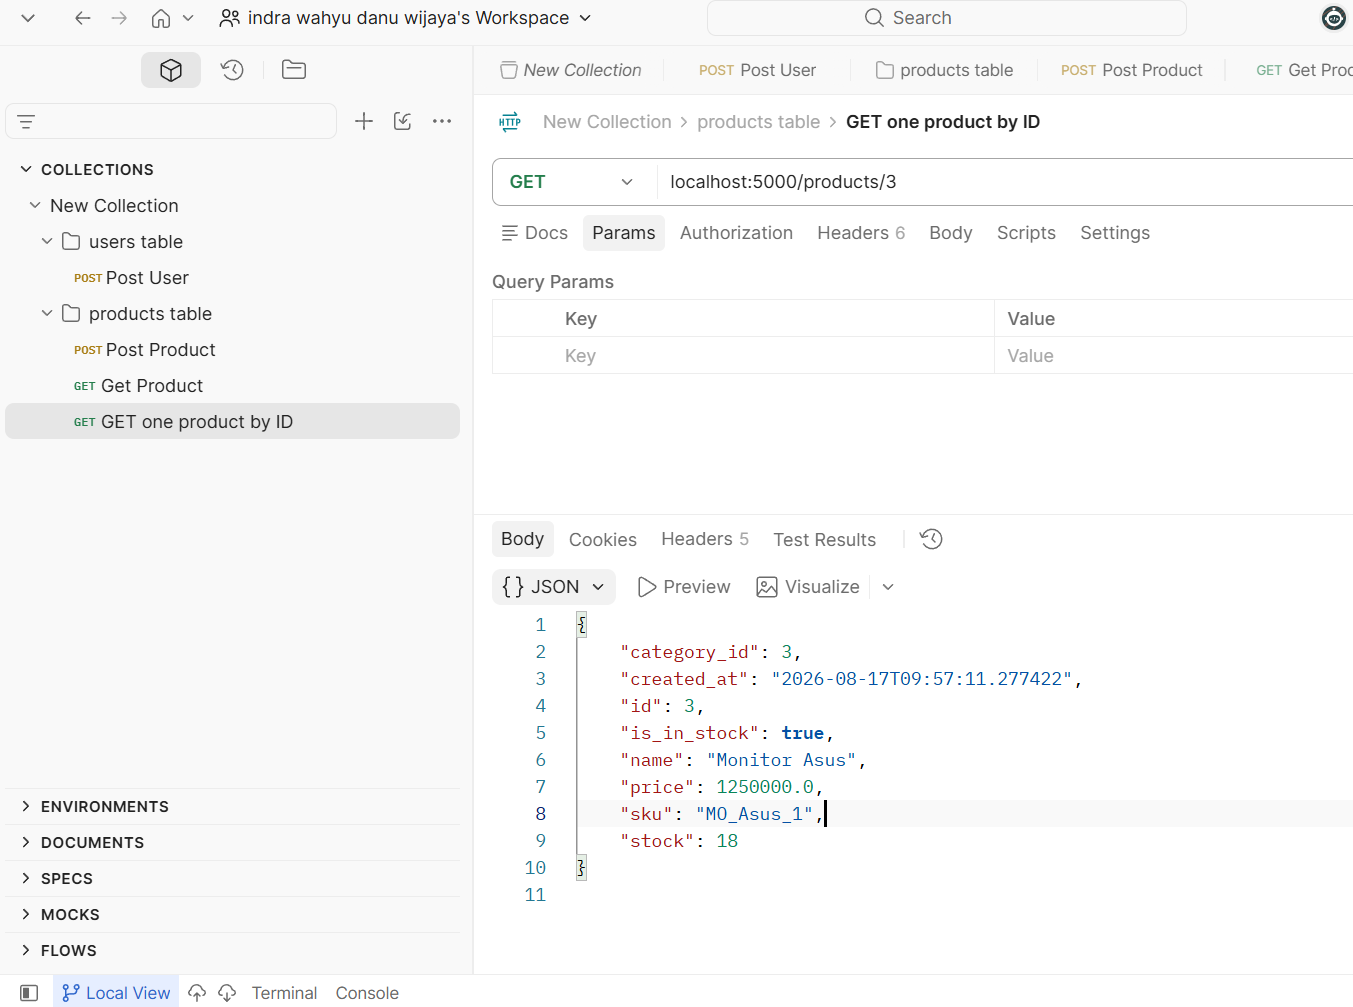
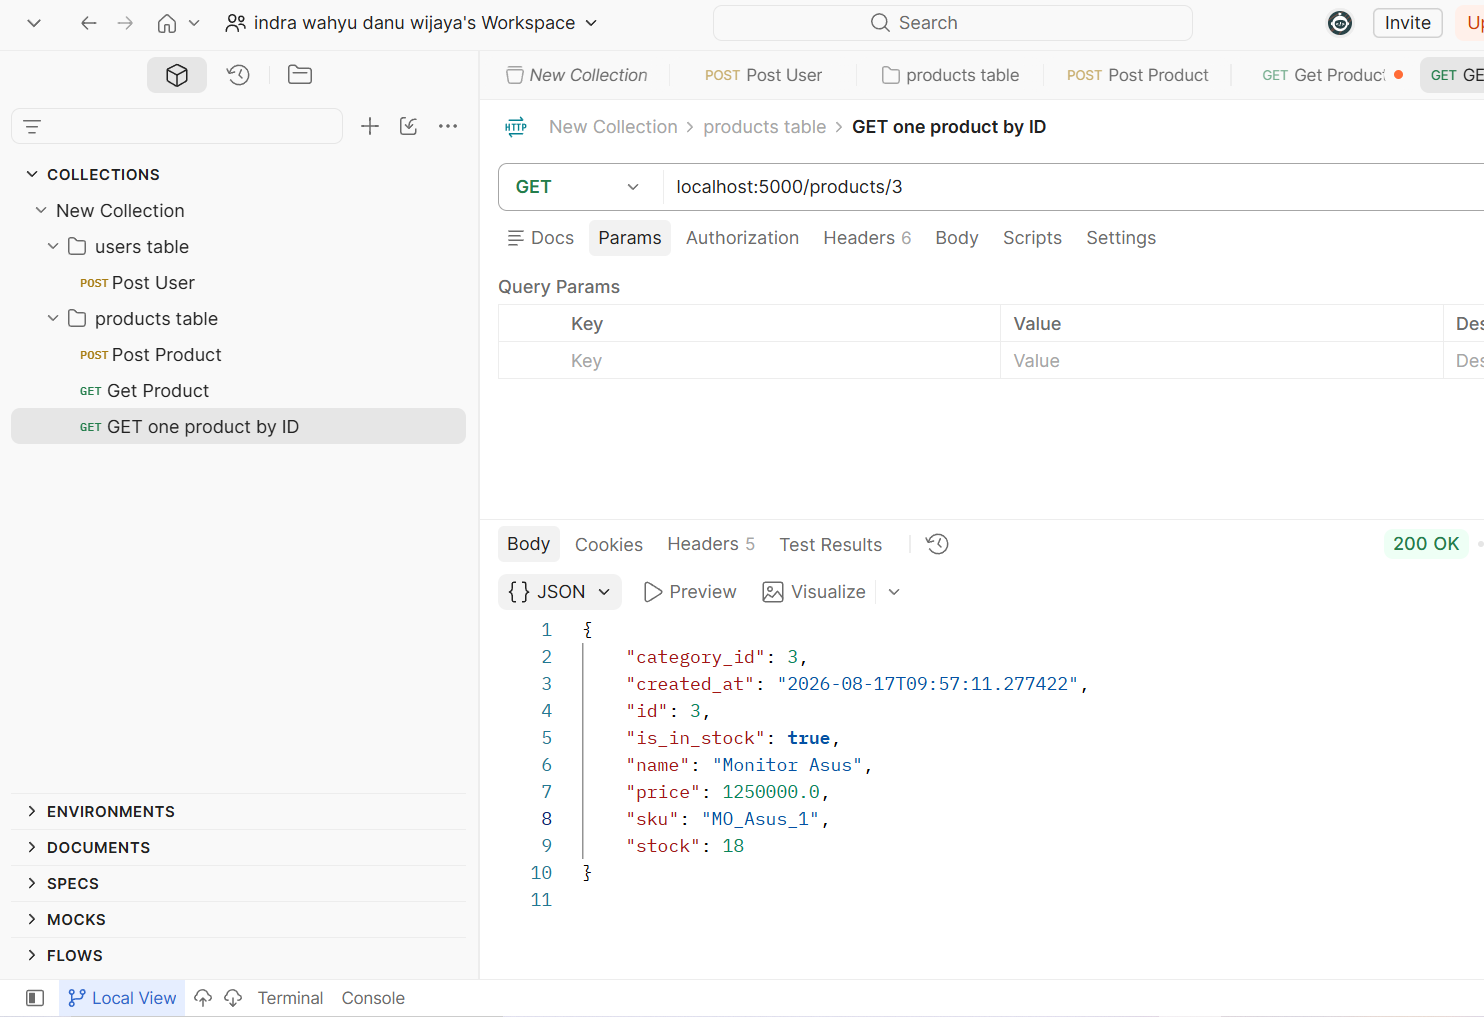
Fix image path in README for GET products by ID section; update product images

diff --git a/README.md b/README.md
@@ -86,4 +86,4 @@ if __name__ == '__main__':
 ![evidence GET all products](image/Get%20Product.png)
 
 ## Evidence & Testing GET products by ID
-![Evidence & Testing GET products by ID](image/GET%20one%20product%20by%20ID.pngGet%20Product.png)
+![Evidence & Testing GET products by ID](image/GET%20one%20product%20by%20ID.png)
